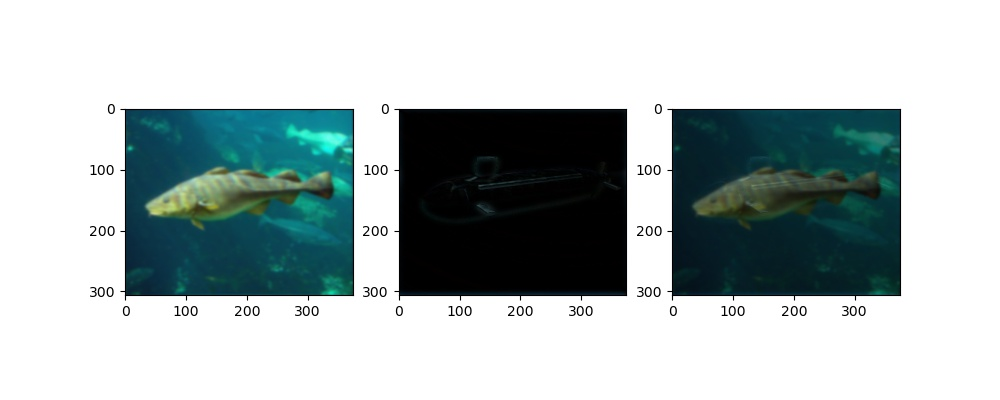
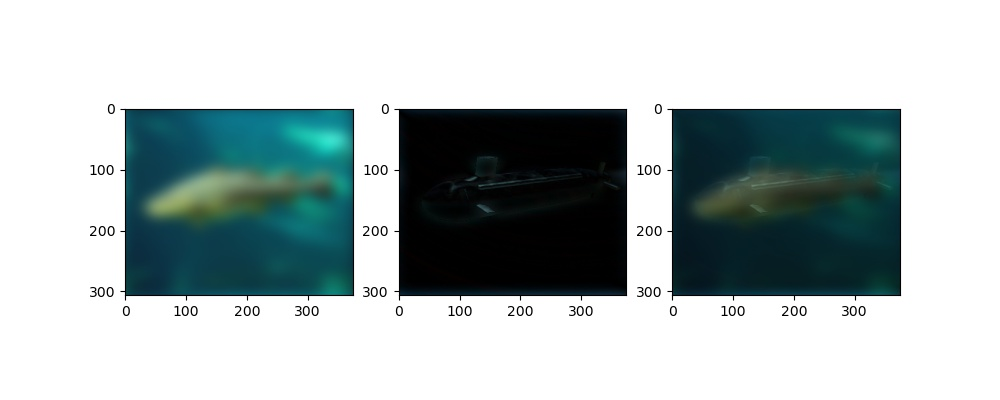
modified D0 to get better results

diff --git a/HW2/hybrid_image.py b/HW2/hybrid_image.py
@@ -53,7 +53,7 @@ if __name__=='__main__':
 			F=fourier_transform(feature)
 
 			# H(u,v) -> low pass filter
-			H=gauss_low_pass(height1,width1,30)
+			H=gauss_low_pass(height1,width1,5)
 
 			# F(u,v)*H(u,v)
 			low_pass_image=F*H
@@ -83,7 +83,7 @@ if __name__=='__main__':
 			F=fourier_transform(feature)
 
 			# H(u,v) -> high pass filter
-			H=gauss_low_pass(height2,width2,10)
+			H=gauss_low_pass(height2,width2,5)
 			H=1-H
 
 			high_pass_image=F*H
